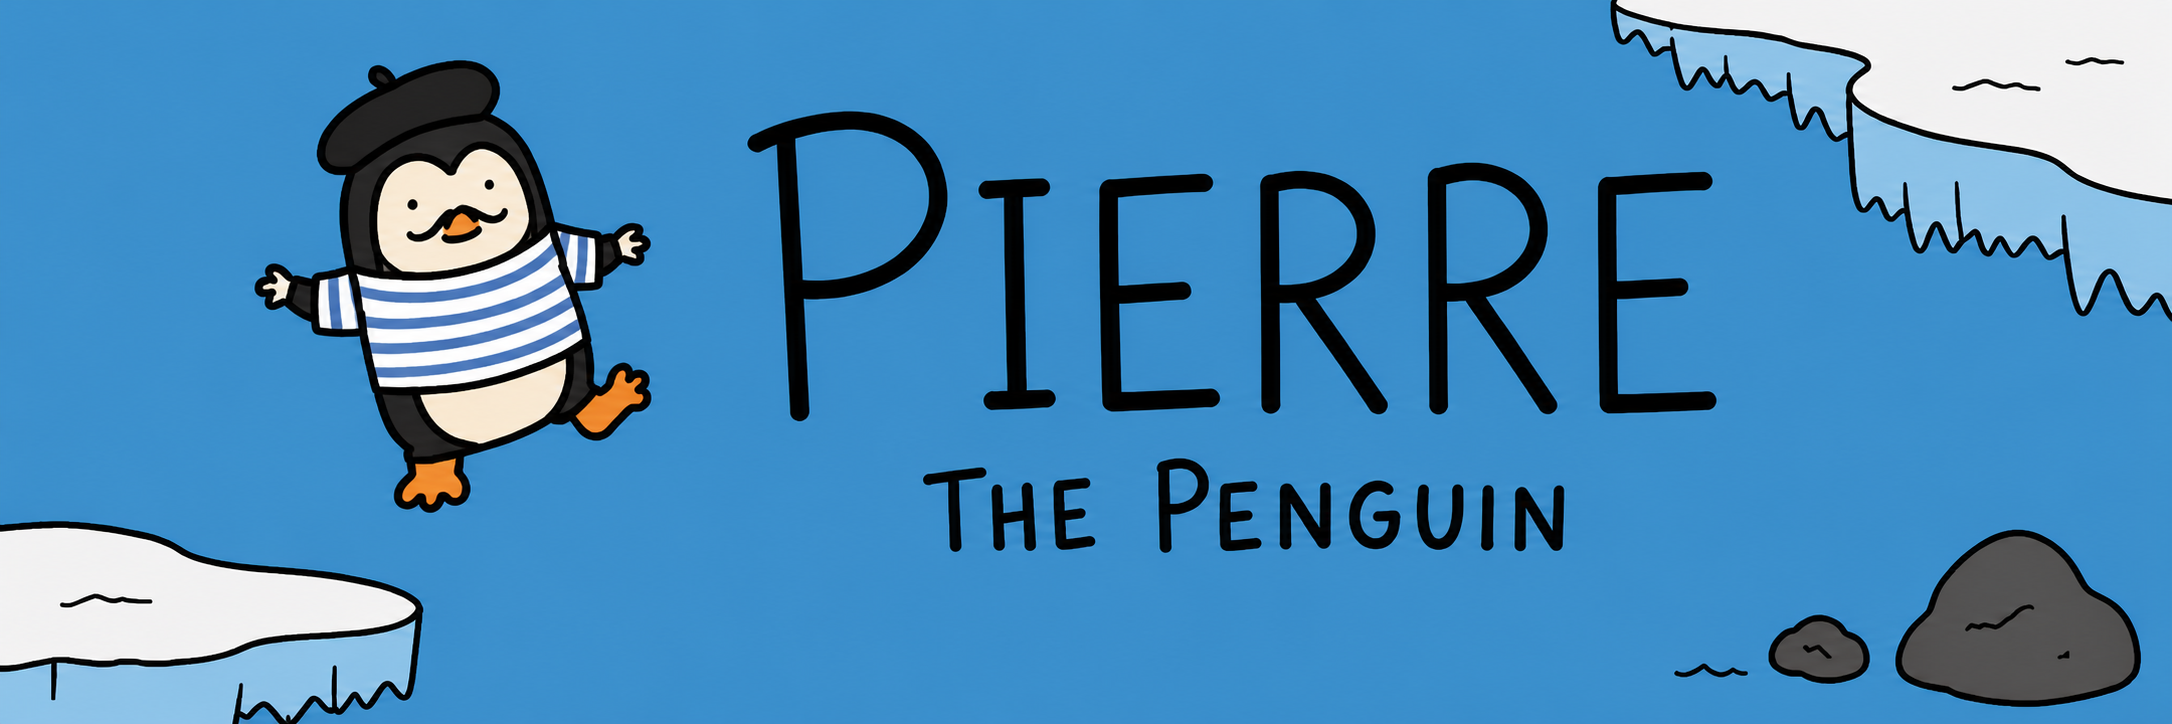
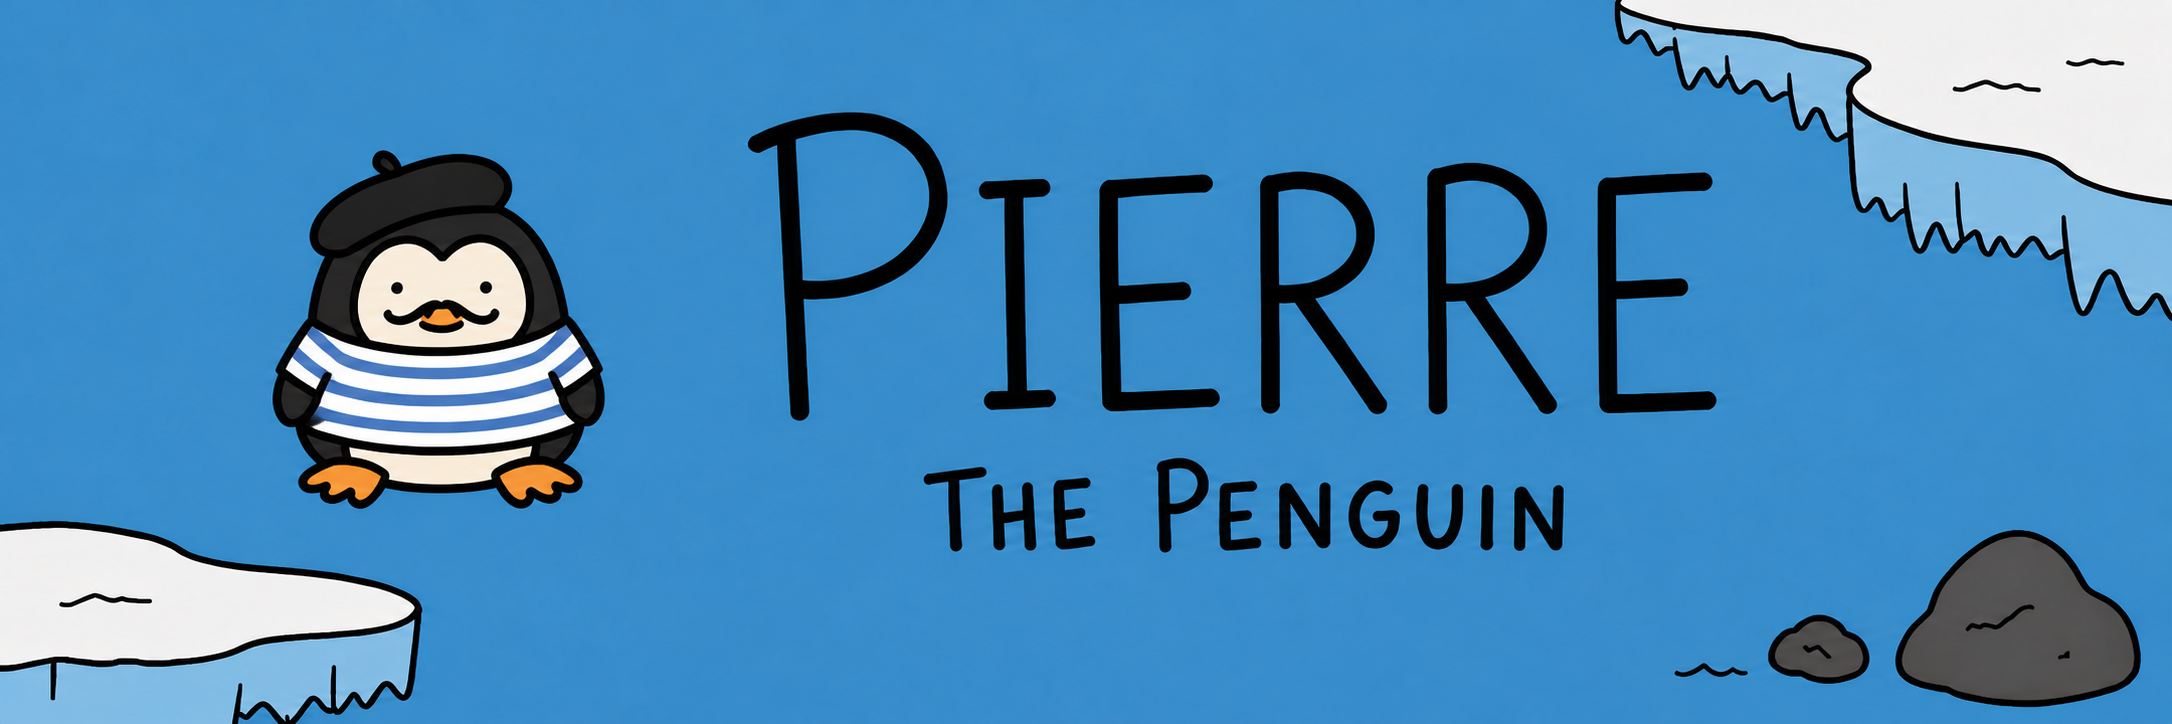
Refine Pierre and add mustache trait

diff --git a/app/page.tsx b/app/page.tsx
@@ -9,7 +9,8 @@ const heads = [
 ];
 const things = ["1","2","4","5","6","7","8","9","10","11","12","13","14","15"];
 const colors = ["#232323", "#f6ead2", "#e8903d"];
-const baseCharacter = "/characters/base-pierre-v2.png";
+const baseCharacter = "/characters/base-pierre-v4.png";
+const mustacheTrait = "/characters/faces/face-mustache.png";
 
 function loadImage(src: string) {
   return new Promise<HTMLImageElement>((resolve, reject) => {
@@ -22,8 +23,9 @@ function loadImage(src: string) {
 
 export default function Home() {
   const canvasRef = useRef<HTMLCanvasElement>(null);
-  const [tab, setTab] = useState<"head" | "thing" | "text">("head");
+  const [tab, setTab] = useState<"head" | "face" | "thing" | "text">("head");
   const [head, setHead] = useState<string | null>(null);
+  const [mustache, setMustache] = useState(false);
   const [thing, setThing] = useState<string | null>(null);
   const [caption, setCaption] = useState("");
   const [ink, setInk] = useState("#000000");
@@ -38,6 +40,7 @@ export default function Home() {
     const base = await loadImage(baseCharacter);
     ctx.drawImage(base, 0, 0, 500, 500);
     if (head) ctx.drawImage(await loadImage(`/characters/heads/head-${head}.png`), 0, 0, 500, 500);
+    if (mustache) ctx.drawImage(await loadImage(mustacheTrait), 0, 0, 500, 500);
     if (thing) ctx.drawImage(await loadImage(`/characters/things/thing-${thing}.png`), 0, 0, 500, 500);
     if (caption.trim()) {
       ctx.font = "40px 'Courier New', Courier, monospace";
@@ -46,7 +49,7 @@ export default function Home() {
       ctx.fillStyle = ink;
       ctx.fillText(caption.trim().slice(0, 28), 250, 20, 455);
     }
-  }, [head, thing, caption, ink]);
+  }, [head, mustache, thing, caption, ink]);
 
   useEffect(() => { void render(); }, [render]);
 
@@ -67,9 +70,10 @@ export default function Home() {
     window.setTimeout(() => setCopied(false), 1400);
   };
 
-  const reset = () => { setHead(null); setThing(null); setCaption(""); };
+  const reset = () => { setHead(null); setMustache(false); setThing(null); setCaption(""); };
   const shuffle = () => {
     setHead(heads[Math.floor(Math.random() * heads.length)]);
+    setMustache(Math.random() >= 0.5);
     setThing(things[Math.floor(Math.random() * things.length)]);
   };
 
@@ -94,7 +98,7 @@ export default function Home() {
             <p className="eyebrow">YOUR TINY PORTRAIT STUDIO</p>
             <h2>Make Pierre <em>yours.</em></h2>
           </div>
-          <p className="intro-copy">Pick a look, hand him a prop, add a line.<br />The mustache stays. Naturally.</p>
+          <p className="intro-copy">Pick a look, hand him a prop, add a line.<br />Mustache optional. Charm inevitable.</p>
         </header>
 
         <div className="workspace">
@@ -118,6 +122,7 @@ export default function Home() {
           </div>
           <nav aria-label="Customizer categories">
             <button className={tab === "head" ? "active" : ""} onClick={() => setTab("head")}>Head</button>
+            <button className={tab === "face" ? "active" : ""} onClick={() => setTab("face")}>Face</button>
             <button className={tab === "thing" ? "active" : ""} onClick={() => setTab("thing")}>Prop</button>
             <button className={tab === "text" ? "active" : ""} onClick={() => setTab("text")}>Text</button>
             <button className="shuffle" onClick={shuffle}>↻ Shuffle</button>
@@ -132,6 +137,16 @@ export default function Home() {
                   </span>
                 </button>
               ))}
+            </div>
+          )}
+          {tab === "face" && (
+            <div className="asset-grid">
+              <button className={mustache ? "selected" : ""} onClick={() => setMustache(!mustache)} aria-label="Toggle Pierre's pencil mustache">
+                <span className="trait-preview">
+                  <NextImage src={baseCharacter} alt="" fill sizes="140px" unoptimized />
+                  <NextImage src={mustacheTrait} alt="" fill sizes="140px" unoptimized />
+                </span>
+              </button>
             </div>
           )}
           {tab === "thing" && (

diff --git a/app/layout.tsx b/app/layout.tsx
@@ -14,12 +14,12 @@ export const metadata: Metadata = {
   title: "Pierre the Penguin — PFP Generator",
   description: "Dress up Pierre, add a caption, and download your own Pierre the Penguin PFP.",
   icons: {
-    icon: [{ url: "/favicon.png?v=2", type: "image/png", sizes: "512x512" }],
-    shortcut: "/favicon.png?v=2",
-    apple: "/favicon.png?v=2",
+    icon: [{ url: "/favicon.png?v=3", type: "image/png", sizes: "512x512" }],
+    shortcut: "/favicon.png?v=3",
+    apple: "/favicon.png?v=3",
   },
-  openGraph: { title: "Pierre the Penguin", description: "Make your Pierre.", images: [{ url: "/og.png?v=3", width: 2172, height: 724, alt: "Pierre the Penguin on a crooked polar coast" }] },
-  twitter: { card: "summary_large_image", title: "Pierre the Penguin", description: "Make your Pierre.", images: ["/og.png?v=3"] },
+  openGraph: { title: "Pierre the Penguin", description: "Make your Pierre.", images: [{ url: "/og.png?v=4", width: 2172, height: 724, alt: "Pierre the Penguin on a crooked polar coast" }] },
+  twitter: { card: "summary_large_image", title: "Pierre the Penguin", description: "Make your Pierre.", images: ["/og.png?v=4"] },
 };
 
 export default function RootLayout({ children }: Readonly<{ children: React.ReactNode }>) {

diff --git a/README.md b/README.md
@@ -1,7 +1,7 @@
 # Pierre the Penguin
 
-A hand-drawn PFP generator for Pierre the Penguin, complete with his tiny pencil
-mustache. Mix head styles and props, add a caption, then copy or download the
+A hand-drawn PFP generator for Pierre the Penguin. Mix head styles, toggle his
+tiny pencil mustache, choose a prop, add a caption, then copy or download the
 finished 500x500 PNG.
 
 Pierre deliberately keeps the original character canvas, pose, and attachment
@@ -27,10 +27,11 @@ npm run build
 
 ## Character asset contract
 
-- Base: `public/characters/base-pierre-v2.png` (500x500)
+- Base: `public/characters/base-pierre-v4.png` (500x500)
 - Head layers: `public/characters/heads/` (500x500 transparent PNGs)
+- Face layers: `public/characters/faces/` (500x500 transparent PNGs)
 - Prop layers: `public/characters/things/` (500x500 transparent PNGs)
-- Layer order: Pierre base -> head -> prop -> caption
+- Layer order: Pierre base -> head -> face -> prop -> caption
 
 Keep future layers on the same 500x500 canvas without moving Pierre's crown,
 face, hands, or feet.
